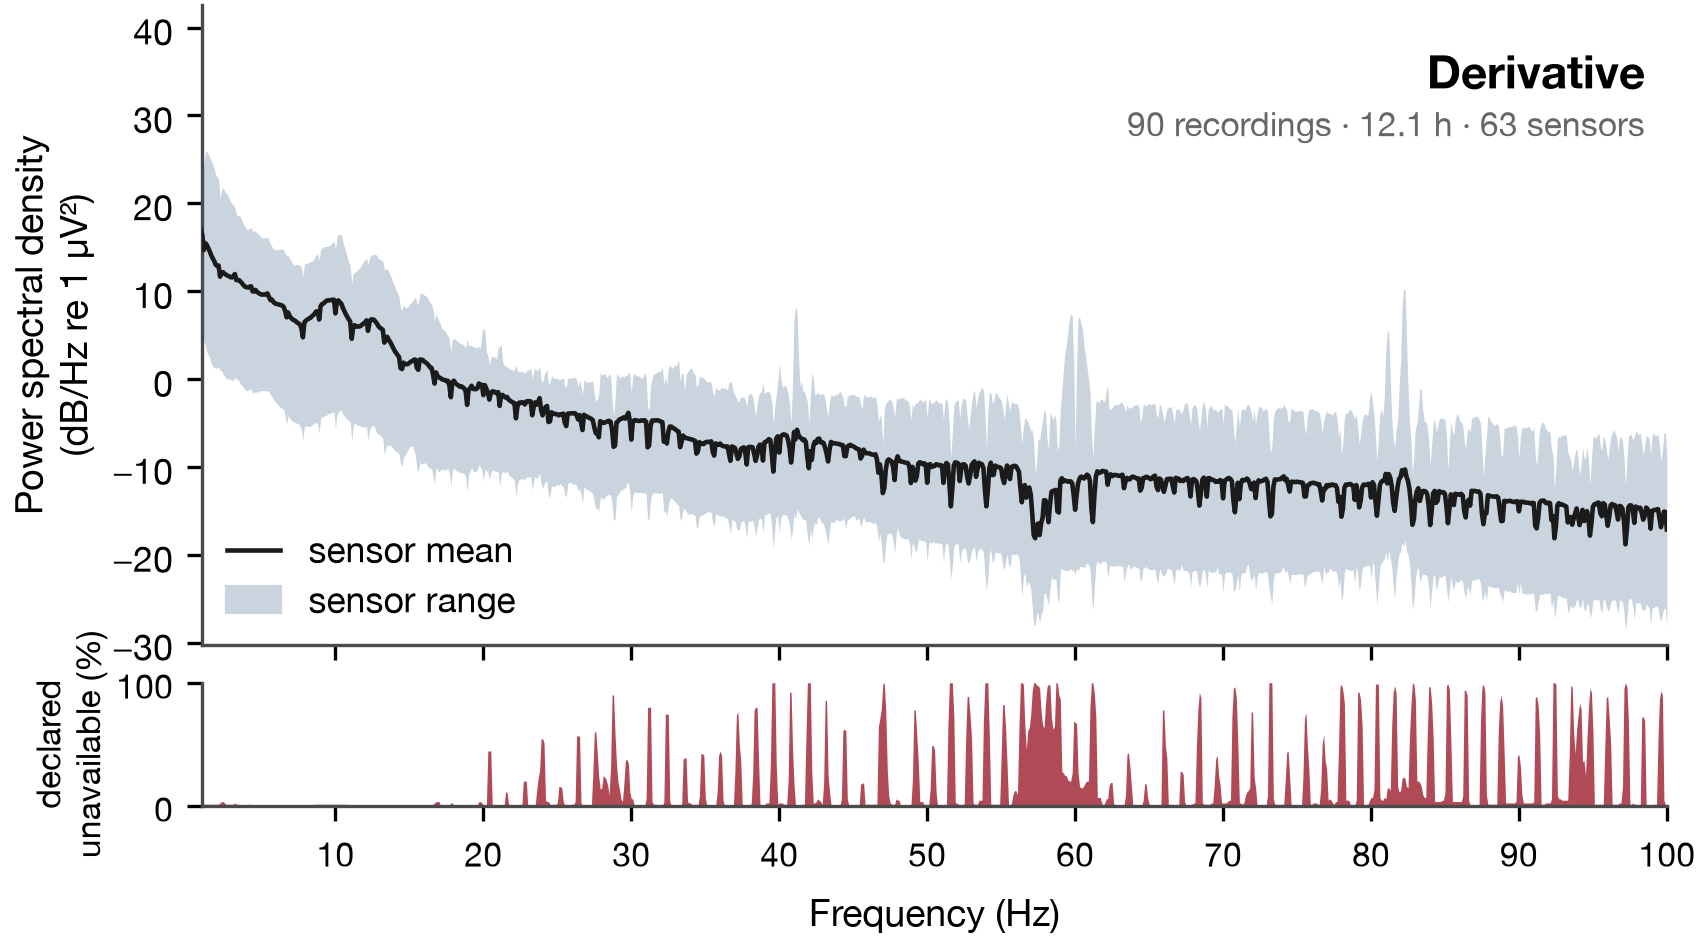
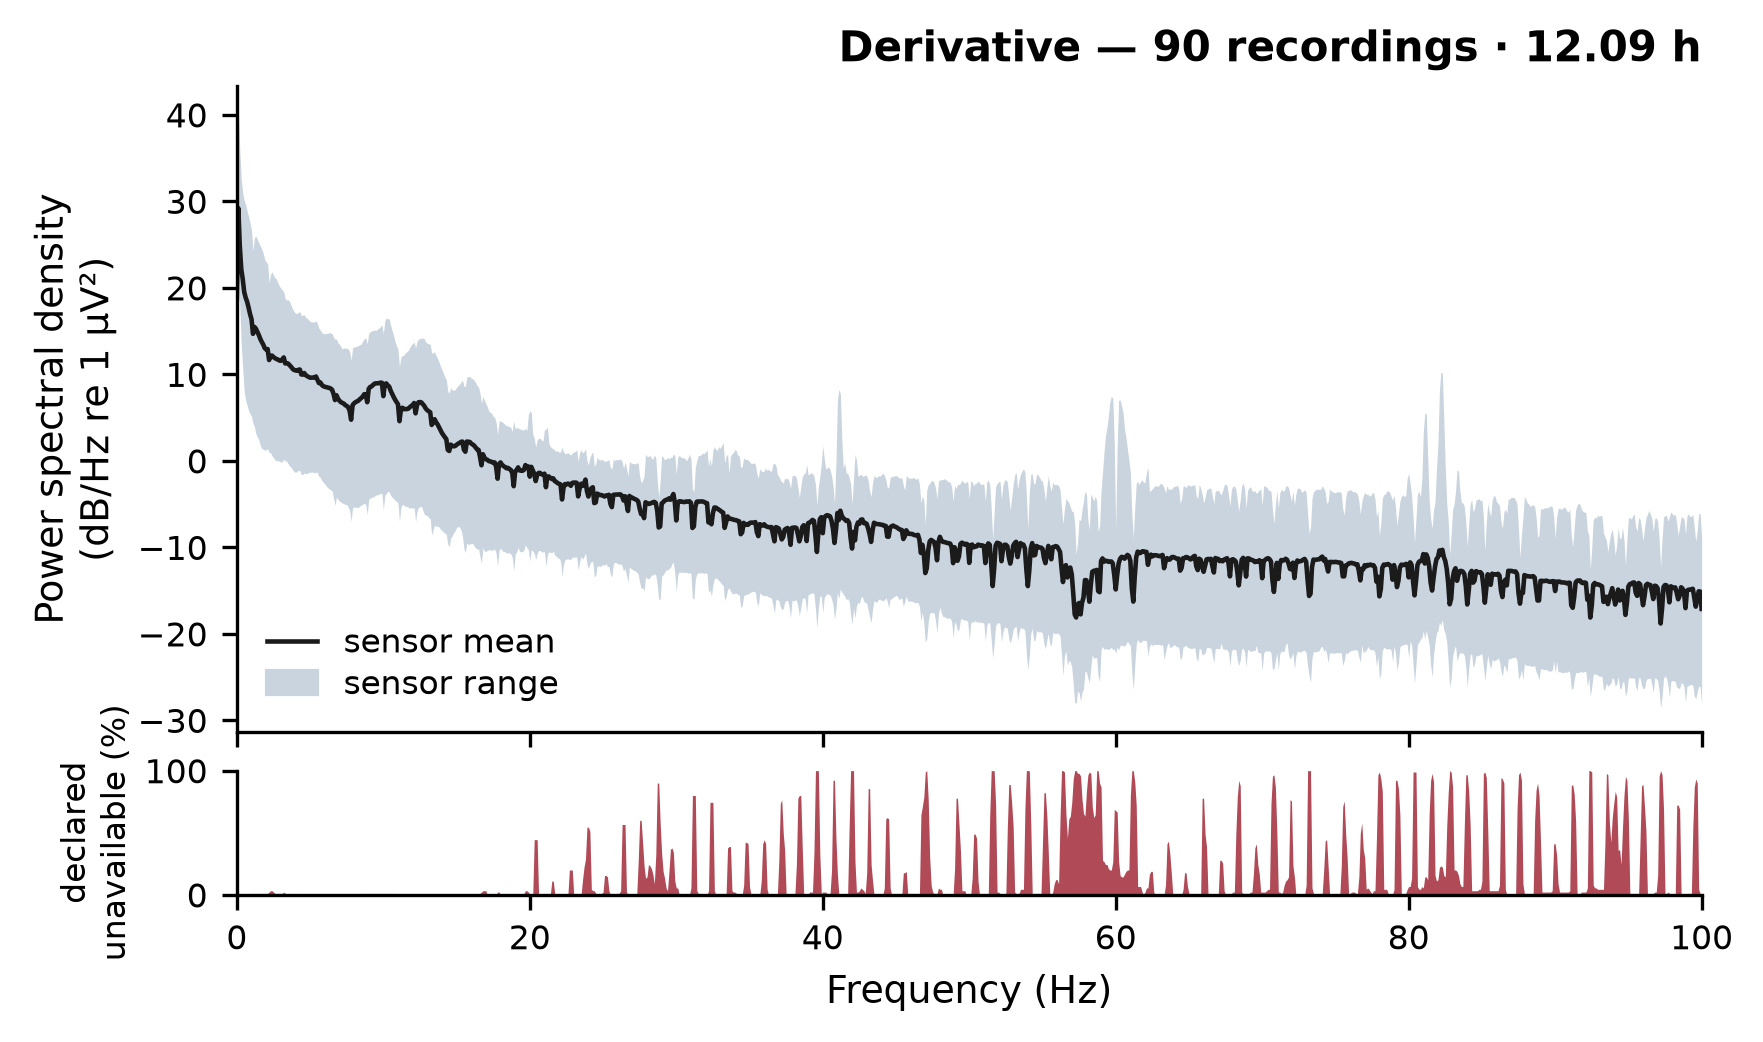
Use the psd stage's own figures in the README

diff --git a/README.md b/README.md
@@ -335,7 +335,10 @@ and cumulative unavailable bandwidth. Floating-point geometry is written with 17
 significant digits.
 
 `diagnose` writes `model.tsv`, `detected_lines.tsv`, and `stopbands.tsv`. `apply` writes
-`line_notch_manifest.tsv`, and `verify` writes `line_notch_verification.tsv`.
+`line_notch_manifest.tsv`, and `verify` writes `line_notch_verification.tsv`. `psd` writes
+`psd_before.png` and `psd_after.png`, one line per sensor in position colours, and
+`psd_before_declared.png` and `psd_after_declared.png`, which put the sensor mean and range
+above the share of recordings that declared each frequency unavailable.
 
 `apply` also writes two advisory tables. `comb_analysis_mask.tsv` lists every comb tooth in
 the band where the comb was measured, at the width a subtracted tooth declares, whether or
@@ -460,8 +463,8 @@ with the manifest's declared shares to three decimals.
 
 ![Cohort derivative spectrum with the declared-unavailable profile](docs/cohort_spectrum_after.png)
 
-Cohort spectra over all 90 recordings, each weighted equally, computed by the same
-`psd` stage code that writes the figures above. The line is the mean across 63 sensors and
+Written by the `psd` stage on every run, as `psd_before_declared.png` and
+`psd_after_declared.png`. Cohort spectra over all 90 recordings, each weighted equally. The line is the mean across 63 sensors and
 the band is their full range. The panel beneath gives, for each frequency, the percentage of
 recordings whose manifest declares it unavailable for inference.
 
